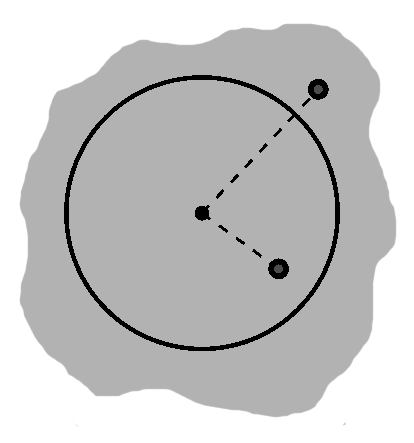
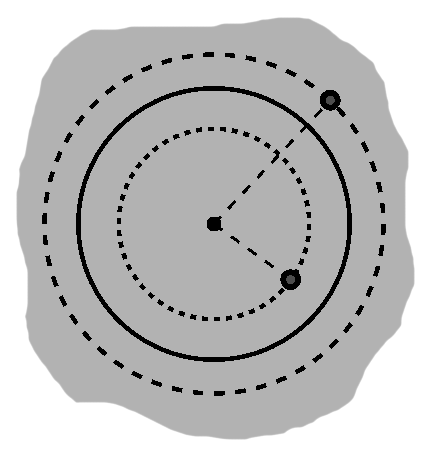
Touched up a couple figures, added new one for circle basics
Minor article updates

diff --git a/projects/GeometryArticles/Pi.html b/projects/GeometryArticles/Pi.html
@@ -248,7 +248,7 @@ being on half a circle.</p>
 the radius, in this case.</p>
 
 <p>As we saw earlier, an isosceles triangle will divide into congruent right triangles. Equilaterals are a special case of
-isoscelese, so we can do so here: this bisects our central angles, now measuring 30&deg; apiece, and introduces two new corners
+isosceles, so we can do so here: this bisects our central angles, now measuring 30&deg; apiece, and introduces two new corners
 midway along each chord.</p>
 
 <p>If we hoist these corners onto the semicircle, our right triangles become isosceles themselves. Additionally, we can replace
@@ -273,7 +273,7 @@ each of our old chords by two new ones that hew even closer to our arcs. An exam
 <p>Since we ended up with isosceles triangles, we can repeat the division process, halving our angles and doubling the
 number of chords in doing so. With twelve chords and 15&deg; central angles, our arc is around $3.13935$ long.</p>
 
-<p>The calculation generalizes for the <i>i</i>-th iteration, with $i = 1$ being the equilateral:
+<p>The calculation generalizes for the <i>i</i>-th iteration, with $i = 1$ being the case with equilaterals:
 
 \begin{align}
 \mathrm{\text{arc length}} \approx 3\left(2^i\sin \frac{60^\circ}{2^i}\right)
@@ -281,9 +281,34 @@ number of chords in doing so. With twelve chords and 15&deg; central angles, our
 
 On each pass, we leave less space between the chords and arcs. This refinement process will in fact
 <a href="https://en.wikipedia.org/wiki/Proof_that_π_is_irrational">go on indefinitely</a>, but the adjustments quickly become
-vanishingly small. After a few steps our value settles into the neighborhood of $3.14159.$</p>
+vanishingly small. After just a few steps our values are in the neighborhood of $3.14159.$</p>
 
 <p>This is $\boldsymbol{\pi},$ perhaps the <a href="https://en.wikipedia.org/wiki/Pi">most famous constant</a> in all of mathematics!</p>
+
+<p>In code, the procedure described above might look like</p>
+
+<pre class="prettyprint"><code class="language-lua">local sqrt = math.sqrt
+
+local function Sin ( steps )
+  local cosa = sqrt( 3 ) / 2 -- start with cos(60 degrees)
+
+  for i = 1, steps - 1 do
+    cosa = sqrt( (1 + cosa) / 2 ) -- get cos(angle / 2)
+  end
+
+  return sqrt( 1 - cosa^2 ) -- sin(angle)
+end
+
+function PI ( n )
+  local steps = n + 1
+  local count = 2^steps
+
+  return 3 * count * Sin( steps )
+end
+
+print( PI( 13 ) ) -- prints 3.1415926453212 on my machine
+                  -- N.B. this numerical precision problems will overwhelm this
+                  -- algorithm if we push `n` much further</code></pre>
 
 <H3><a name="round-and-round"></a>Round and round we go (K)</H3>
 
@@ -335,7 +360,7 @@ even remember these values: <a href="https://docs.coronalabs.com/api/library/mat
 <pre class="prettyprint"><code class="language-lua">local rad = math.rad
 local sin = math.sin
 
-function PI ( n )
+function PI2 ( n )
   -- At the outset, we have three 60-degree triangles, or 3 * (2 * sin(30 degrees)). At each
   -- iteration, we halve all the angles and double the triangle count.
   local count = 2^(n + 1)
@@ -343,34 +368,8 @@ function PI ( n )
   return 3 * count * sin( rad( 60 / count ) )
 end
 
-print( PI( 15 ) ) -- on my machine, prints 3.1415926534561...
+print( PI2( 15 ) ) -- prints 3.1415926534561...
 print( math.pi ) -- ...and 3.1415926535898</code></pre>
-
-<p>This sample is a little circular, so to speak, as it converts to radians in the process. We can use our earlier half-angle identities,
-however.</p>
-
-<pre class="prettyprint"><code class="language-lua">local sqrt = math.sqrt
-
-local function Sin ( steps )
-  local cosa = sqrt( 3 ) / 2 -- start with cos(60 degrees)
-
-  for i = 1, steps - 1 do
-    cosa = sqrt( (1 + cosa) / 2 ) -- get cos(angle / 2)
-  end
-
-  return sqrt( 1 - cosa^2 ) -- sin(angle)
-end
-
-function PI2 ( n )
-  local steps = n + 1
-  local count = 2^steps
-
-  return 3 * count * Sin( steps )
-end
-
-print( PI2( 13 ) ) -- prints 3.1415926453212</code></pre>
-
-<p>Unfortunately, numerical precision issues begin to accumulate as more steps are taken. But it demonstrates the principle.</p>
 
 <H3><a name="circle-area"></a>Wheels within wheels (L)</H3>
 

diff --git a/projects/GeometryArticles/CircleBasics.html b/projects/GeometryArticles/CircleBasics.html
@@ -310,8 +310,6 @@ language, the circle plus its interior is a <b>disk</b>.)</p>
 <p>The two gray points are "some distance" from the same center, of course, so we can say they lie on other <b>concentric</b>
 circles. The interior point in <b>A-5</b> will have a smaller radius, the exterior a larger one.</p>
 
-<p><b>(NOTES:</b> Add dashed circles to figure<b>)</b></p>
-
 <p>When our radius is $0,$ "all" points are again that far from the center: however, this is nothing but the center itself!
 This degenerate case is not terribly interesting, though it occasionally arises as a corner case when dealing with lengths.
 Our analysis will by and large assume "nice" circles.</p>
@@ -577,11 +575,9 @@ is called the <b>secant</b>:
 \tan^2\theta + 1 = \sec^2\theta
 \end{align}
 
-<p>Figure <b>C-5</b> emphasizes some important relationships that arise when we have a circle of radius $A,$ rather than
+<p>Figure <b>C-5</b> emphasizes some important relationships that arise when we have a circle of radius $r,$ rather than
 strictly the unit circle. Given an angle, we can calculate $dy$ or the hypotenuse directly from $dx,$ scaling it it by the
 tangent or secant of the angle, respectively. This will prove quite useful!</p>
-
-<p><b>(NOTES:</b> Redo this for consistency with <b>C-2</b>?<b>)</b></p>
 
 <p>We can also find the so-called <b>cotangent</b> and <b>cosecant</b> functions by applying the above steps to $dy$ and sine.
 For the most part, these have analogous properties. Historically, various other side-angle relationships have also received
@@ -611,6 +607,13 @@ to make our points and then abstract from there.</p>
 
 <p>To this end, rather than the $dx$ and $dy$ we have used thus far, these sides tend to be designated as adjacent and opposite, respectively. These have the same meanings
 as before, describing their relationship to the angle. This has some interesting outcomes: for instance, the adjacent side might in fact be behind us.</p>
+
+<div style="float:right;">
+	<div style="margin: 0 auto; text-align: center; overflow: hidden;">
+		<img src="./images_CircleBasics/E3.png" width="200" height="150" alt="Complementary angle">
+		<div style="caption"><b>E-3</b></div>
+	</div>
+</div>
 
 <p>Beyond the motivation, of course, we made little use of the circles. In fact, we can simply pretend one is there, allowing us to generalize these to any
 situation with a right triangle.</p>

diff --git a/projects/GeometryArticles/TOC.html b/projects/GeometryArticles/TOC.html
@@ -268,9 +268,9 @@ in Corona?&mdash;before finally <a href="https://en.wikipedia.org/wiki/Eureka_(w
 <p>Similarly, some sections end with exercises, marked as <b>EXERCISES</b>. These are optional as well, but working them out might offer interesting insights. While
 digressionary, these more closely follow the material in the text.</p>
 
-<p>Mathematical expressions are rendered using the <a href="https://docs.mathjax.org/en/v2.6-latest/start.html">MathJax</a> toolkit. (Punctuation characters such
-as periods and commas are rolled into such expressions whenever they immediately follow them; this makes the characters stand out a bit, especially when their
-unadorned counterparts are nearby, but eliminates some occasional formatting weirdness.)</p>
+<p>The <a href="https://docs.mathjax.org/en/v2.6-latest/start.html">MathJax</a> toolkit is used to render mathematical expressions like ${1 \over x}.$ As in this
+example, punctuation characters such as periods and commas are rolled into such expressions whenever they immediately follow them; this makes the characters stand out
+a bit, especially when their unadorned counterparts are nearby, but eliminates some occasional formatting weirdness.</p>
 
 <p><a href="https://github.com/ggcrunchy/samples/tree/master/geometry_kit">This repository</a> contains the various small programs, along with a few support modules,
 used to generate most of the figures in these articles. The mathematical ideas under discussion naturally tend to appear in the corresponding code, so it might be
